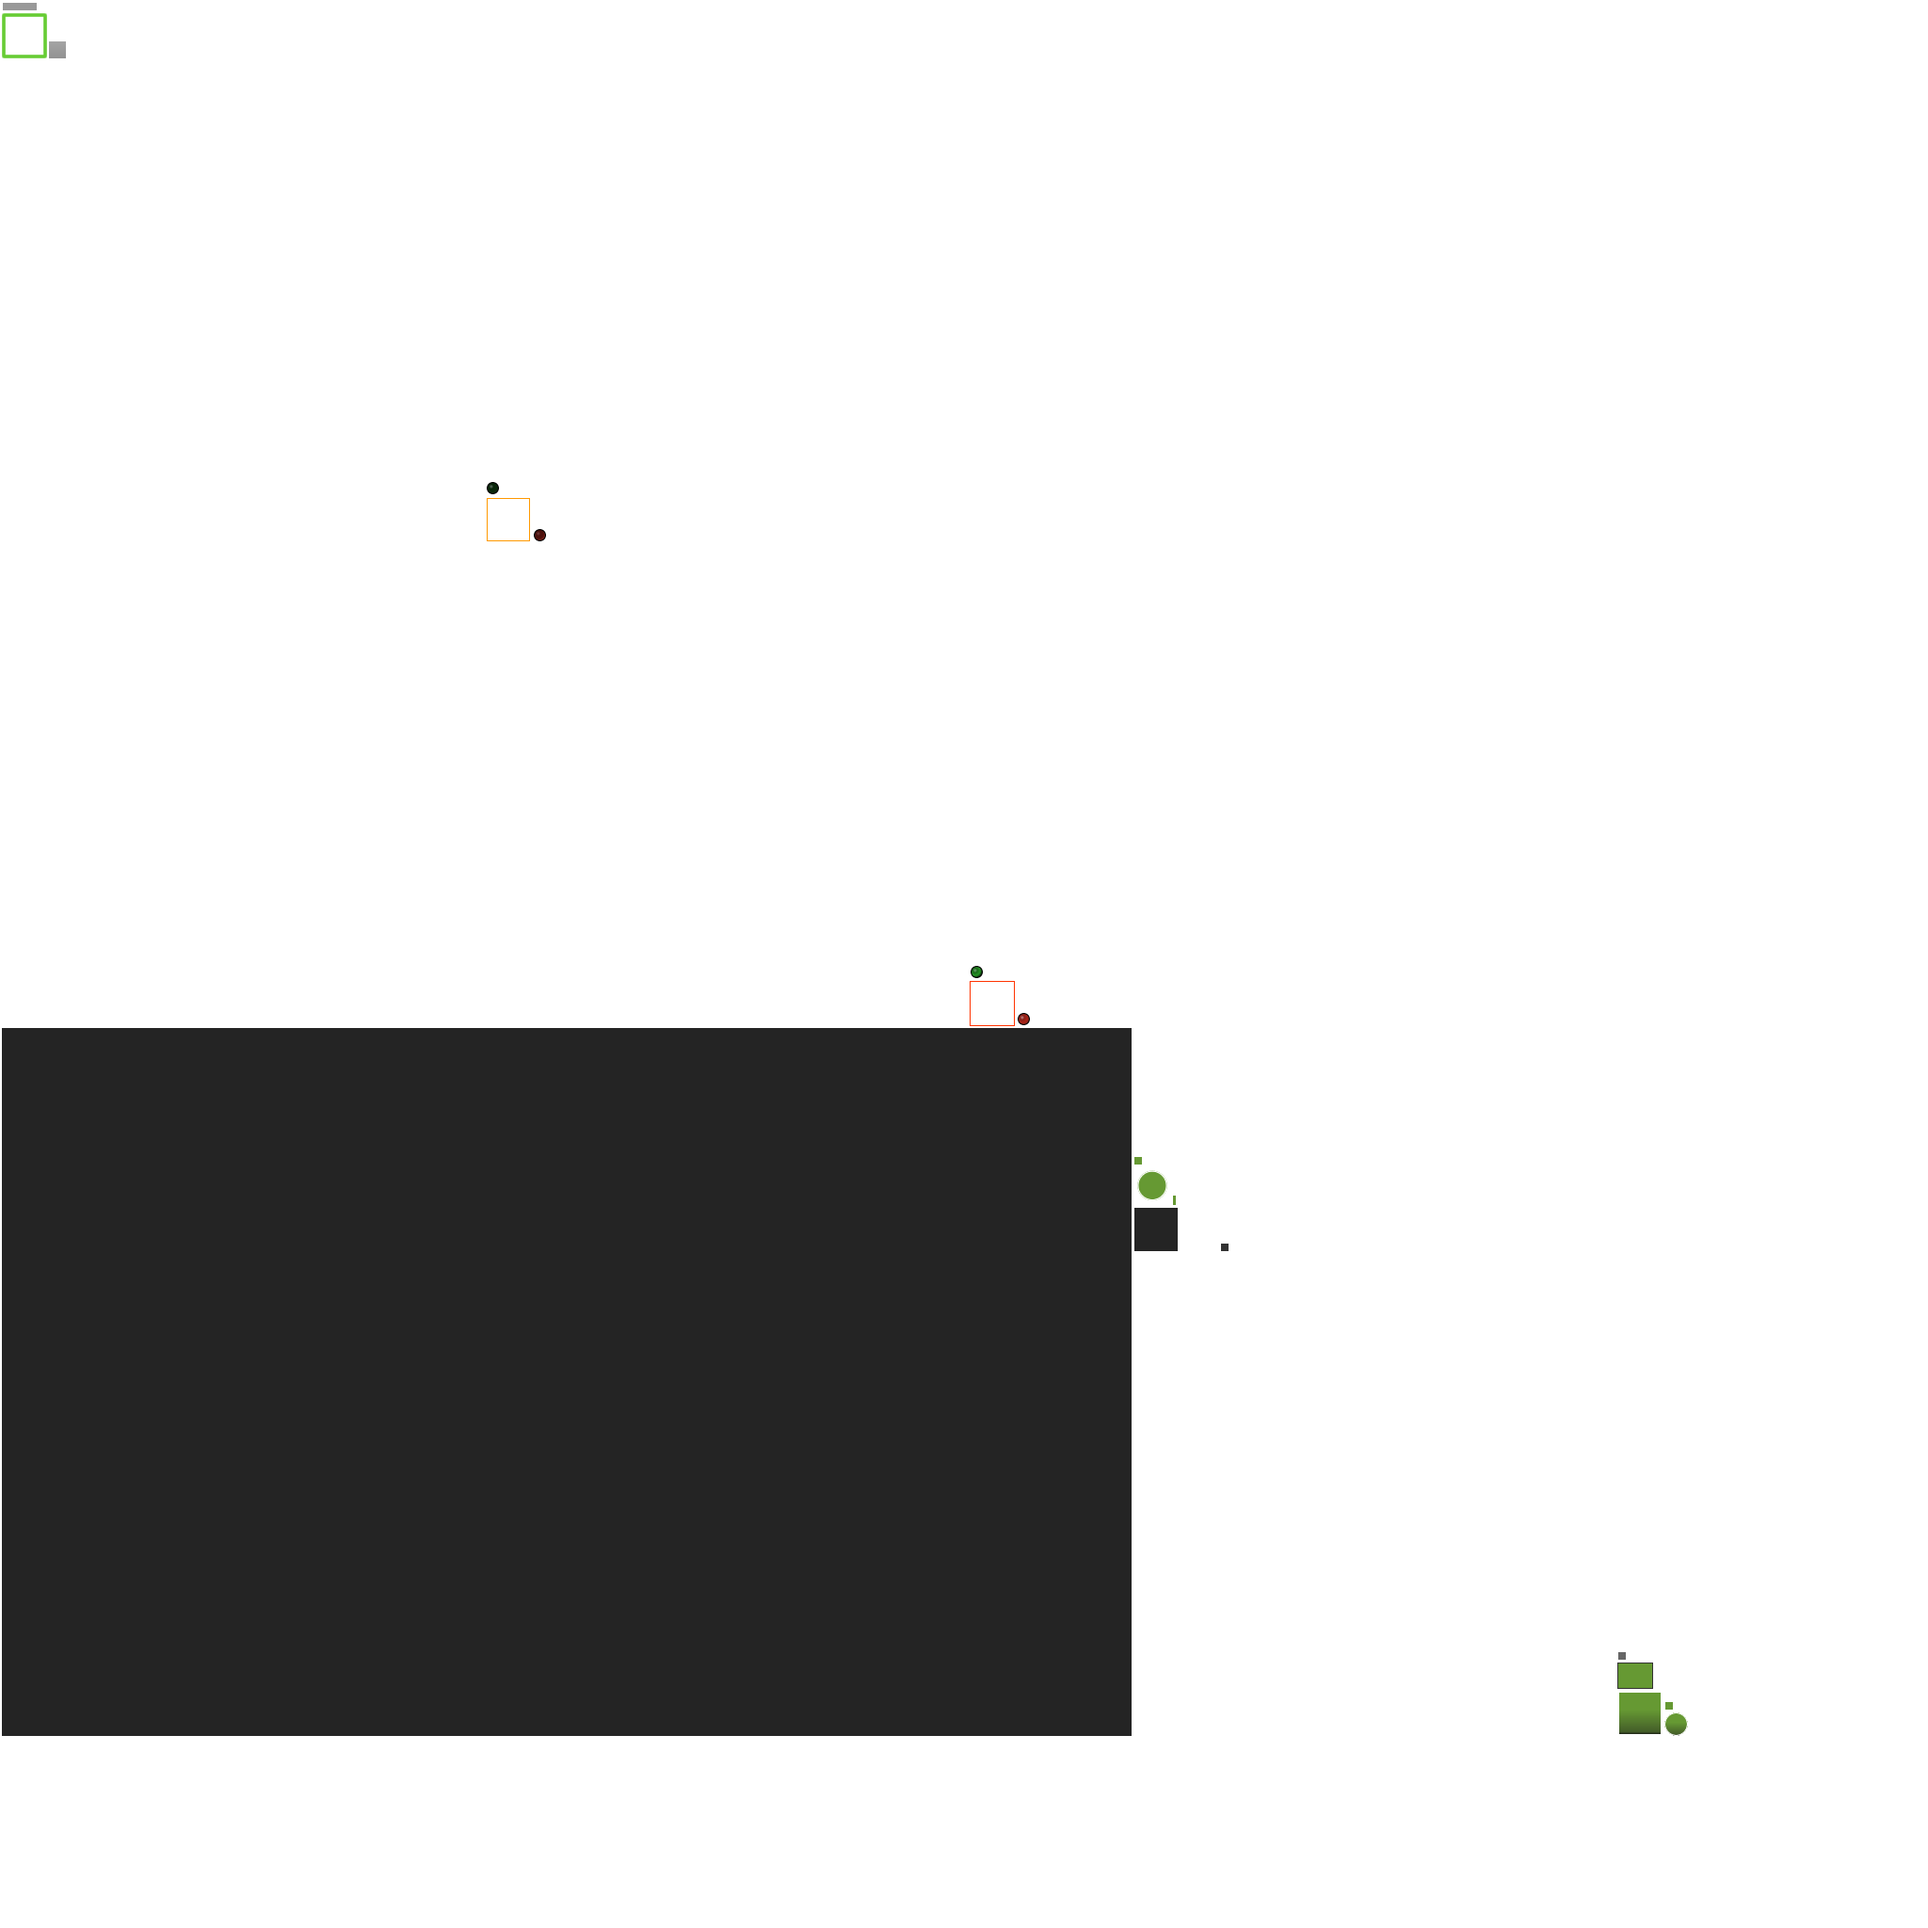
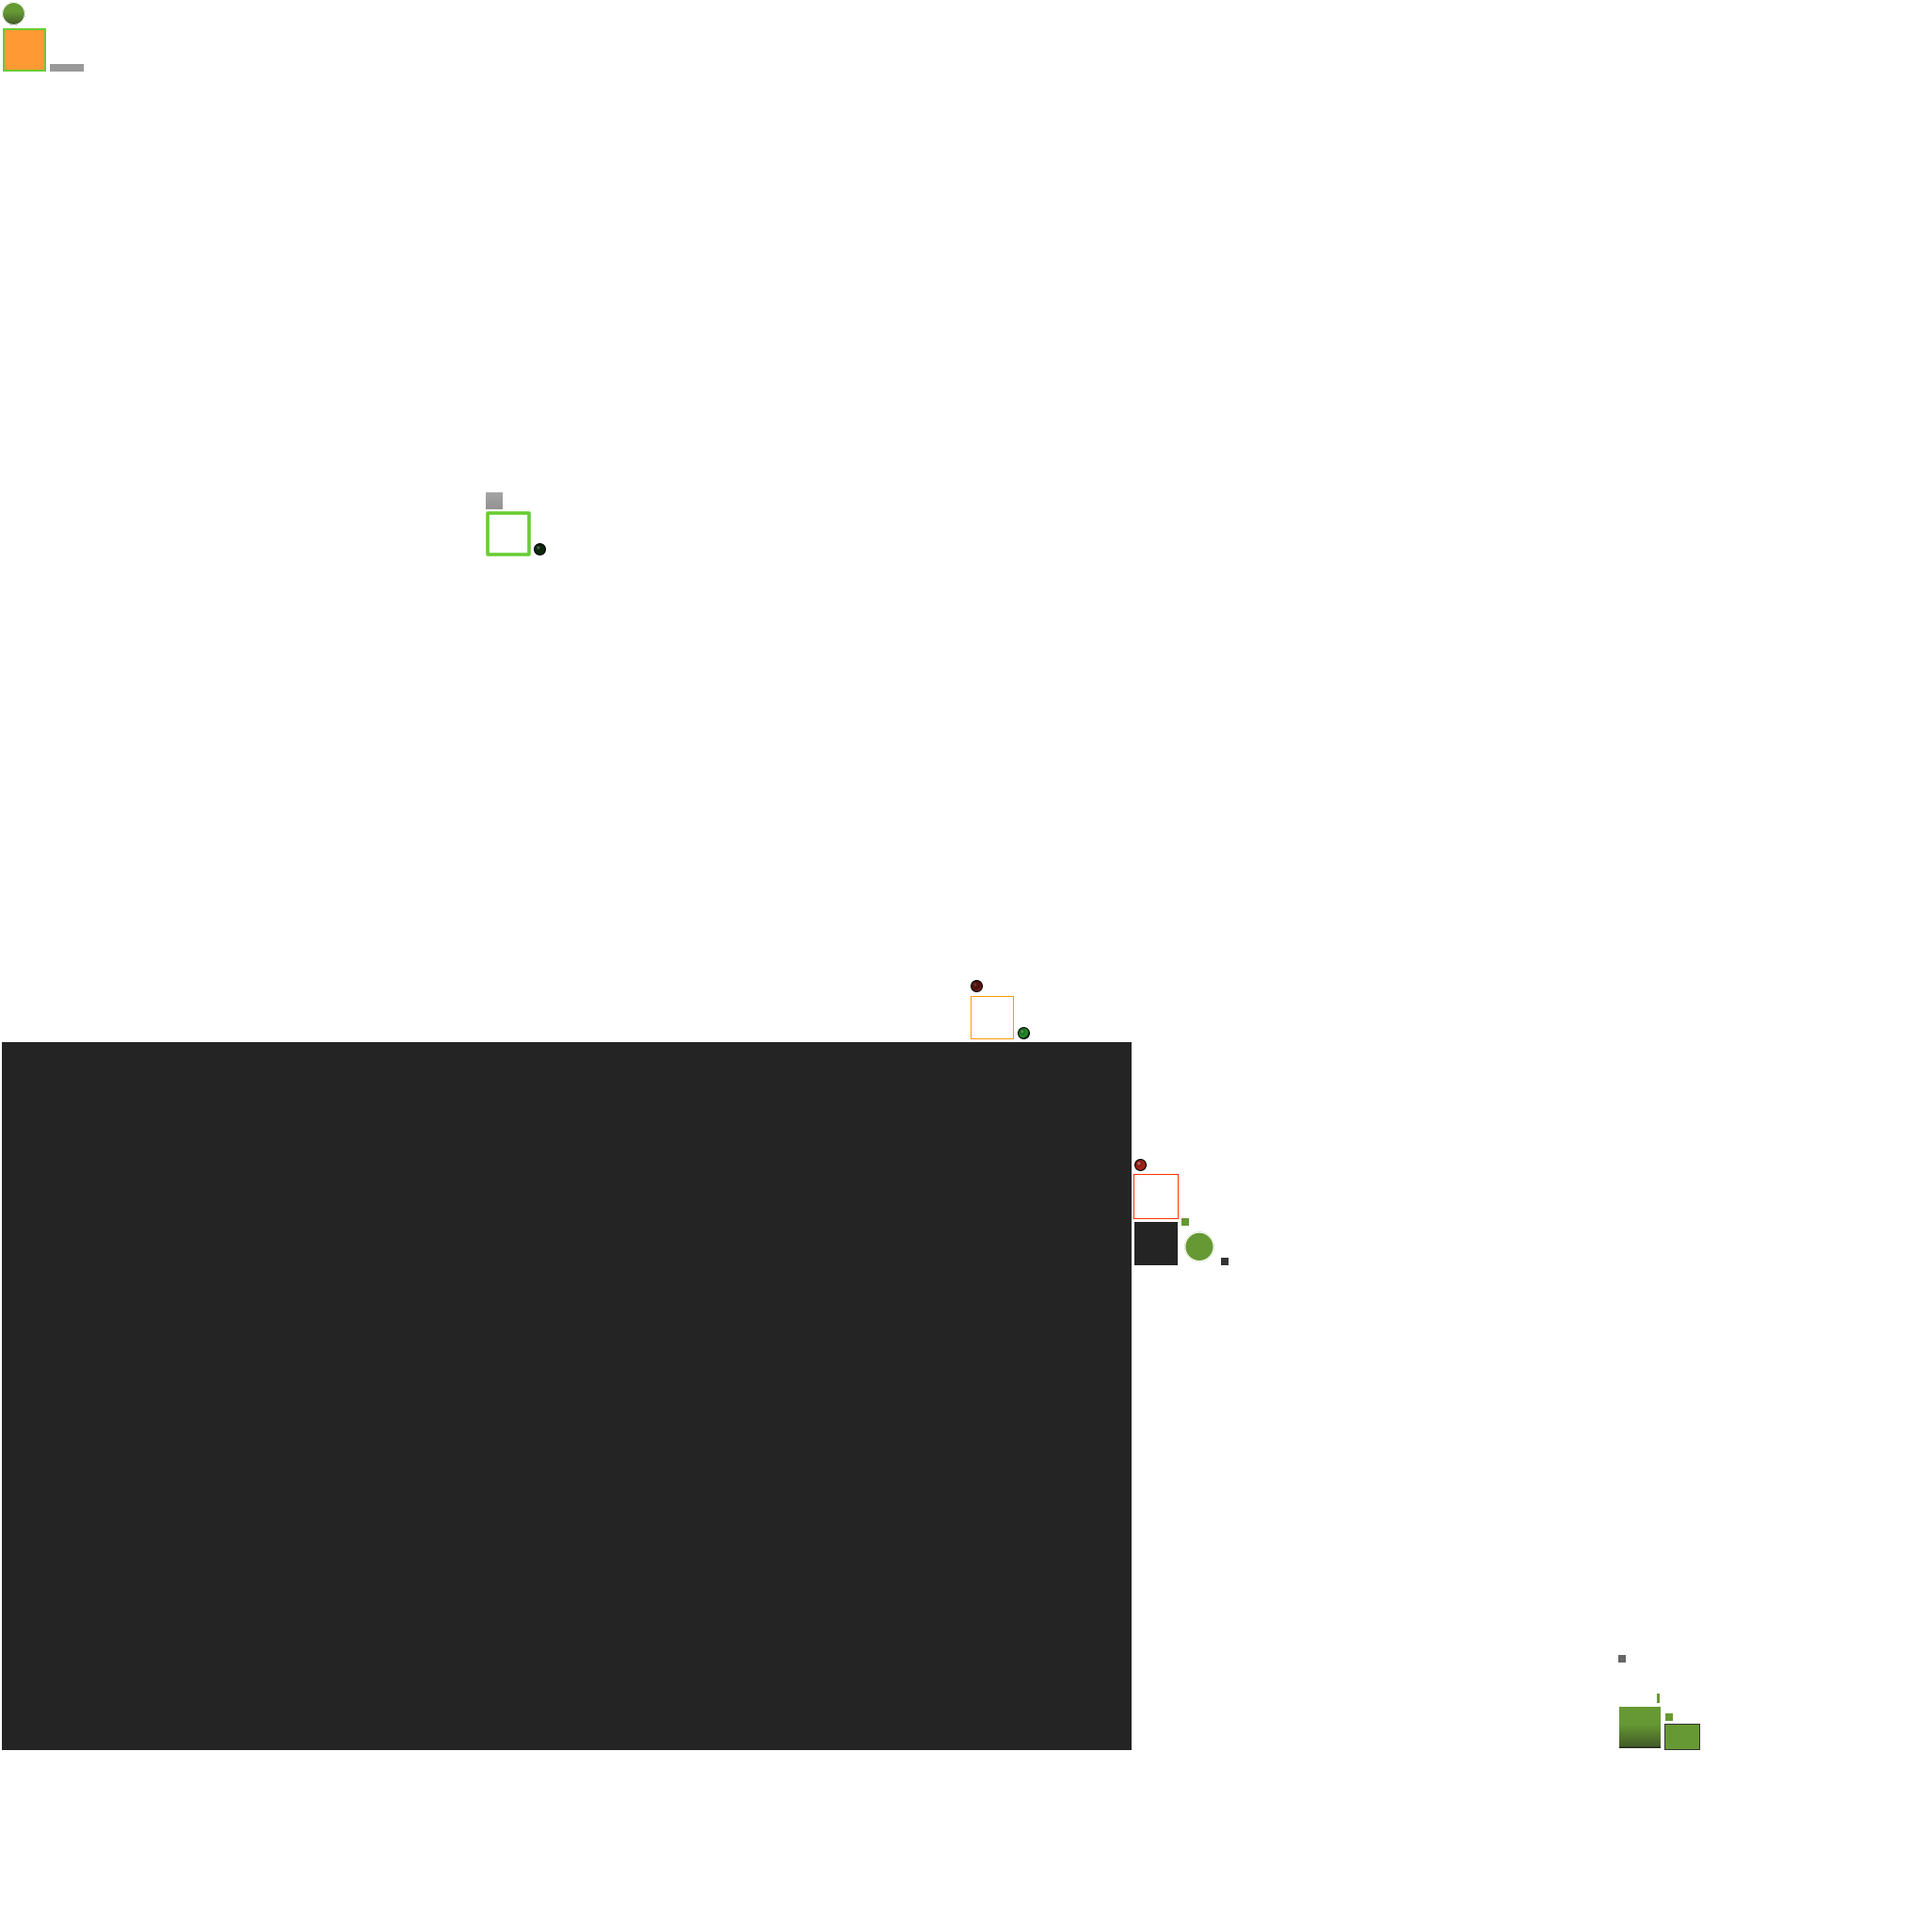
added pulsing active overlay to PadButton

diff --git a/CausticLiveGDX/src/com/teotigraphix/causticlive/view/main/components/PadButton.java b/CausticLiveGDX/src/com/teotigraphix/causticlive/view/main/components/PadButton.java
@@ -24,9 +24,12 @@ import com.badlogic.gdx.graphics.g2d.BitmapFont;
 import com.badlogic.gdx.graphics.g2d.SpriteBatch;
 import com.badlogic.gdx.scenes.scene2d.Actor;
 import com.badlogic.gdx.scenes.scene2d.InputEvent;
+import com.badlogic.gdx.scenes.scene2d.actions.Actions;
+import com.badlogic.gdx.scenes.scene2d.ui.Image;
 import com.badlogic.gdx.scenes.scene2d.ui.Label;
 import com.badlogic.gdx.scenes.scene2d.ui.Label.LabelStyle;
 import com.badlogic.gdx.scenes.scene2d.ui.Skin;
+import com.badlogic.gdx.scenes.scene2d.ui.Stack;
 import com.badlogic.gdx.scenes.scene2d.ui.ToggleButton;
 import com.badlogic.gdx.scenes.scene2d.utils.ActorGestureListener;
 import com.badlogic.gdx.scenes.scene2d.utils.ChangeListener.ChangeEvent;
@@ -47,6 +50,8 @@ public class PadButton extends ToggleButton {
 
     private Label machineLabel;
 
+    private Label textLabel;
+
     //--------------------------------------------------------------------------
     // Public Property :: API
     //--------------------------------------------------------------------------
@@ -56,6 +61,22 @@ public class PadButton extends ToggleButton {
     @Override
     public PadButtonStyle getStyle() {
         return style;
+    }
+
+    //----------------------------------
+    // text
+    //----------------------------------
+
+    private String text;
+
+    @Override
+    public void setText(String value) {
+        text = value;
+    }
+
+    @Override
+    public CharSequence getText() {
+        return text;
     }
 
     //----------------------------------
@@ -84,6 +105,19 @@ public class PadButton extends ToggleButton {
 
     public void setData(QueueData value) {
         queueData = value;
+        invalidate();
+    }
+
+    private boolean active;
+
+    public void setActive(boolean value) {
+        active = value;
+        if (active) {
+            activeOverlay.addAction(Actions.forever(Actions.sequence(Actions.fadeIn(0.5f),
+                    Actions.delay(0.25f), Actions.fadeOut(0.5f))));
+        } else {
+            activeOverlay.clearActions();
+        }
         invalidate();
     }
 
@@ -135,13 +169,49 @@ public class PadButton extends ToggleButton {
 
         LabelStyle labelStyle = new LabelStyle(skin.getFont("default-font"), skin.getColor("white"));
         beatLabel = new Label("beat", labelStyle);
-
         addActor(beatLabel);
 
         labelStyle = new LabelStyle(skin.getFont("eras-12-b"), Color.CYAN);
         machineLabel = new Label("", labelStyle);
-
         addActor(machineLabel);
+
+        createOverlayStack();
+
+        // main label
+        labelStyle = new LabelStyle(skin.getFont("default-font"), skin.getColor("white"));
+        textLabel = new Label("", labelStyle);
+        addActor(textLabel);
+    }
+
+    private Stack overlayStack;
+
+    private Image queueOverlay;
+
+    private Image playOverlay;
+
+    private Image lockOverlay;
+
+    private Image activeOverlay;
+
+    private void createOverlayStack() {
+        overlayStack = new Stack();
+
+        queueOverlay = new Image(getStyle().queueOverlay);
+        playOverlay = new Image(getStyle().playOverlay);
+        lockOverlay = new Image(getStyle().lockOverlay);
+        activeOverlay = new Image(getStyle().activeOverlay);
+
+        queueOverlay.setVisible(false);
+        playOverlay.setVisible(false);
+        lockOverlay.setVisible(false);
+        activeOverlay.setVisible(false);
+
+        overlayStack.addActor(queueOverlay);
+        overlayStack.addActor(playOverlay);
+        overlayStack.addActor(lockOverlay);
+        overlayStack.addActor(activeOverlay);
+
+        addActor(overlayStack);
     }
 
     //--------------------------------------------------------------------------
@@ -153,15 +223,21 @@ public class PadButton extends ToggleButton {
         super.layout();
         beatLabel.setPosition(5f, 1);
         machineLabel.setPosition(5f, getHeight() + 5f);
+        textLabel.setText(text);
+        textLabel.validate();
+        textLabel.setPosition(0f, getHeight() - textLabel.getHeight() - 8f);
+        overlayStack.setSize(getWidth(), getHeight());
+        overlayStack.invalidate();
+        activeOverlay.setVisible(active);
     }
 
     @Override
     public void draw(SpriteBatch batch, float parentAlpha) {
         super.draw(batch, parentAlpha);
 
-        Drawable queueOverlay = getStyle().queueOverlay;
-        Drawable playOverlay = getStyle().playOverlay;
-        Drawable lockOverlay = getStyle().lockOverlay;
+        queueOverlay.setVisible(false);
+        playOverlay.setVisible(false);
+        lockOverlay.setVisible(false);
 
         beatLabel.setColor(Color.WHITE);
         machineLabel.setText("");
@@ -169,15 +245,14 @@ public class PadButton extends ToggleButton {
         if (queueData != null) {
             switch (queueData.getState()) {
                 case Queue:
-                    batch.setColor(Color.GREEN);
-                    queueOverlay.draw(batch, getX(), getY(), getWidth(), getHeight());
+                    queueOverlay.setVisible(true);
                     break;
                 case Play:
-                    playOverlay.draw(batch, getX(), getY(), getWidth(), getHeight());
+                    playOverlay.setVisible(true);
                     break;
                 case PlayUnqueued:
                 case UnQueued:
-                    lockOverlay.draw(batch, getX(), getY(), getWidth(), getHeight());
+                    lockOverlay.setVisible(true);
                     break;
                 case Idle:
                     break;
@@ -230,6 +305,8 @@ public class PadButton extends ToggleButton {
         public Drawable playOverlay;
 
         public Drawable lockOverlay;
+
+        public Drawable activeOverlay;
 
         public PadButtonStyle() {
         }

diff --git a/CausticLiveGDX/src/com/teotigraphix/causticlive/view/main/components/PadGrid.java b/CausticLiveGDX/src/com/teotigraphix/causticlive/view/main/components/PadGrid.java
@@ -22,7 +22,6 @@ package com.teotigraphix.causticlive.view.main.components;
 import java.util.Collection;
 
 import com.badlogic.gdx.scenes.scene2d.Actor;
-import com.badlogic.gdx.scenes.scene2d.ui.Image;
 import com.badlogic.gdx.scenes.scene2d.ui.Skin;
 import com.badlogic.gdx.scenes.scene2d.ui.WidgetGroup;
 import com.badlogic.gdx.scenes.scene2d.utils.ChangeListener;
@@ -45,7 +44,7 @@ public class PadGrid extends WidgetGroup {
 
     protected boolean longPressed;
 
-    private Image activeOverlay;
+    //private Image activeOverlay;
 
     public PadGrid(Skin skin) {
         this.skin = skin;
@@ -56,14 +55,13 @@ public class PadGrid extends WidgetGroup {
         int index = 0;
         for (int i = 0; i < numRows; i++) {
             for (int j = 0; j < numColums; j++) {
-                final PadButton button = new PadButton(index + "", skin);
+                final PadButton button = new PadButton("", skin);
                 button.setIndex(index);
                 button.addListener(new ChangeListener() {
                     @Override
                     public void changed(ChangeEvent event, Actor actor) {
                         PadButton button = (PadButton)actor;
                         listener.onChange(button.getIndex(), button.getData());
-                        //button.invalidate();
                     }
                 });
                 button.setOnPadButtonListener(new OnPadButtonListener() {
@@ -140,14 +138,13 @@ public class PadGrid extends WidgetGroup {
         }
     }
 
-    public void updateActive(int localIndex, boolean show) {
-        if (show) {
-            activeOverlay = new Image(skin.getDrawable("pad_selected"));
-            activeOverlay.setBounds(0, 0, 100, 100);
-            addActor(activeOverlay);
-        } else {
-            removeActor(activeOverlay);
-            activeOverlay = null;
+    public void updateActive(QueueData data, boolean show) {
+        SnapshotArray<Actor> children = getChildren();
+        for (Actor actor : children) {
+            ((PadButton)actor).setActive(false);
+        }
+        if (data != null) {
+            ((PadButton)children.get(data.getPatternIndex())).setActive(show);
         }
     }
 

diff --git a/CausticLiveGDX/src/com/teotigraphix/causticlive/view/assign/PhraseListMediator.java b/CausticLiveGDX/src/com/teotigraphix/causticlive/view/assign/PhraseListMediator.java
@@ -13,7 +13,6 @@ import com.teotigraphix.caustk.library.item.LibraryPhrase;
 import com.teotigraphix.libgdx.controller.ScreenMediator;
 import com.teotigraphix.libgdx.screen.IScreen;
 import com.teotigraphix.libgdx.ui.ButtonBar;
-import com.teotigraphix.libgdx.ui.OverlayButton;
 import com.teotigraphix.libgdx.ui.ScrollList;
 
 @Singleton
@@ -24,9 +23,9 @@ public class PhraseListMediator extends ScreenMediator {
 
     private ScrollList view; // need composite component
 
-    private OverlayButton assignButton; // this should be in the view
-
-    private OverlayButton unassignButton;
+    //    private OverlayButton assignButton; // this should be in the view
+    //
+    //    private OverlayButton unassignButton;
 
     private String[] items = new String[] {
             "Assign", "Unassign"

diff --git a/CausticLiveGDX/src/com/teotigraphix/causticlive/view/main/PadGridMediator.java b/CausticLiveGDX/src/com/teotigraphix/causticlive/view/main/PadGridMediator.java
@@ -138,6 +138,7 @@ public class PadGridMediator extends ScreenMediator {
                                 break;
 
                             case ActiveData:
+                                invalidateActivePadOverlay();
                                 break;
                         }
                     }
@@ -156,7 +157,7 @@ public class PadGridMediator extends ScreenMediator {
                 break;
         }
 
-        view.updateActive(sequencerModel.getActiveData().getPatternIndex(), show);
+        view.updateActive(sequencerModel.getActiveData(), show);
     }
 
     @Override

diff --git a/CausticLiveGDX/src/com/teotigraphix/causticlive/screen/SkinRegistry.java b/CausticLiveGDX/src/com/teotigraphix/causticlive/screen/SkinRegistry.java
@@ -116,6 +116,7 @@ public class SkinRegistry {
         padButtonStyle.lockOverlay = skin.getDrawable("overlay_unqueued");
         padButtonStyle.playOverlay = skin.getDrawable("overlay_play");
         padButtonStyle.queueOverlay = skin.getDrawable("overlay_queued");
+        padButtonStyle.activeOverlay = skin.getDrawable("overlay_active");
 
         padButtonStyle.font = skin.getFont("default-font");
         padButtonStyle.fontColor = skin.getColor("white");

diff --git a/CausticLiveGDX/src/com/teotigraphix/causticlive/model/SequencerModel.java b/CausticLiveGDX/src/com/teotigraphix/causticlive/model/SequencerModel.java
@@ -91,8 +91,10 @@ public class SequencerModel extends CaustkModelBase implements ISequencerModel {
     @Override
     public void setSelectedBank(int value) {
         boolean changed = getSequencerModelState().setSelectedBank(value);
-        if (changed)
+        if (changed) {
+            setActiveData(null);
             trigger(new OnSequencerModelPropertyChange(PropertyChangeKind.Bank));
+        }
     }
 
     private final String[] items = {
